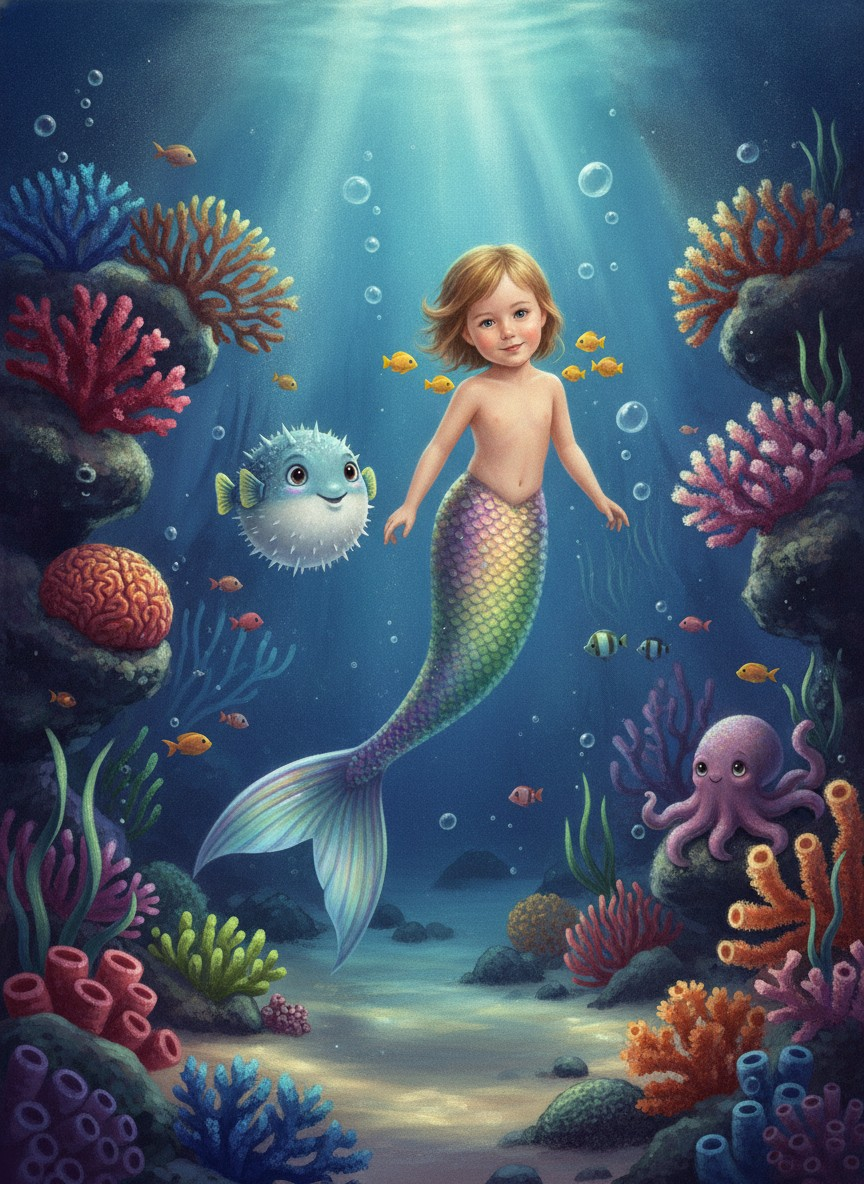
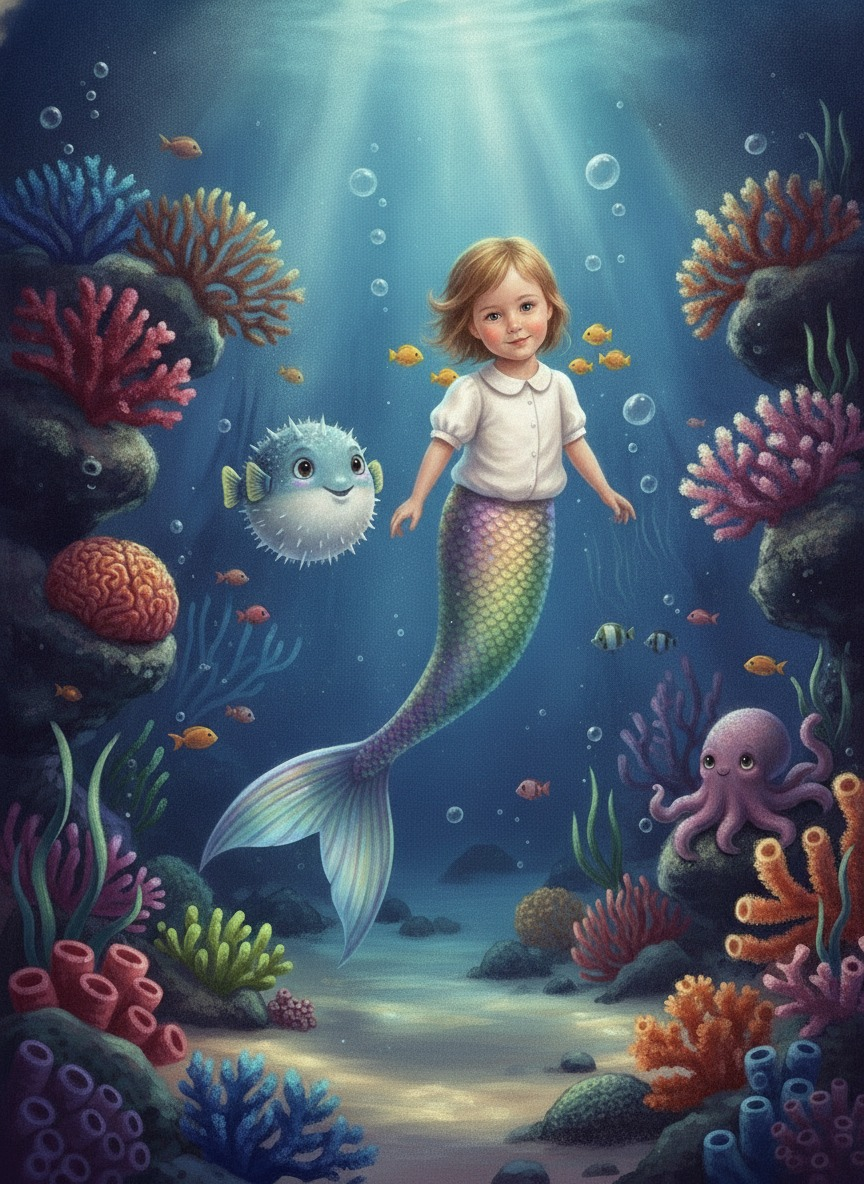
Show hero as a large portrait book, gold cover titles, and modest ocean cover.
Client asked for book-shaped hero (not full-bleed), more attractive title type, and a clothed mermaid on Lia's cover.

diff --git a/apps/web/src/landing.css b/apps/web/src/landing.css
@@ -1,4 +1,4 @@
-@import url('https://fonts.googleapis.com/css2?family=Baloo+2:wght@500;600;700;800&family=Quicksand:wght@400;500;600;700&display=swap');
+@import url('https://fonts.googleapis.com/css2?family=Baloo+2:wght@500;600;700;800&family=Fredoka:wght@500;600;700&family=Quicksand:wght@400;500;600;700&display=swap');
 
 /* ---------- base ---------- */
 .kid {
@@ -89,103 +89,112 @@
 .khero-cta { display: flex; gap: 14px; flex-wrap: wrap; margin: 22px 0 14px; }
 .ktrust { font-weight: 600; color: #6b6890; } .stars { color: var(--yellow); letter-spacing: 2px; }
 
-/* ---------- HERO banner full-width (foto real -> capa do livro, carrossel) ---------- */
-.kbanner-hero { position: relative; z-index: 1; max-width: 1180px; margin: 6px auto 0; padding: 16px 22px 4px; }
+/* ---------- HERO — livro grande (retrato), não banner full-bleed ---------- */
+.kbanner-hero {
+  position: relative; z-index: 1; max-width: 1180px; margin: 6px auto 0;
+  padding: 18px 22px 8px; display: flex; justify-content: center;
+}
 .kbh-frame {
-  position: relative; width: 100%; border-radius: 30px; overflow: hidden;
-  aspect-ratio: 16 / 9; min-height: 360px; background: #12203f;
-  box-shadow: 0 30px 70px rgba(31,53,104,.28);
+  position: relative; width: min(520px, 92vw); border-radius: 14px 6px 6px 14px;
+  overflow: hidden; aspect-ratio: 3 / 4; background: #12203f;
+  box-shadow:
+    0 28px 60px rgba(31,53,104,.32),
+    8px 0 0 #1a2748,
+    10px 0 0 rgba(0,0,0,.18);
+}
+.kbh-frame::before {
+  content: ""; position: absolute; left: 0; top: 0; bottom: 0; width: 10px; z-index: 7;
+  background: linear-gradient(90deg, rgba(0,0,0,.28), rgba(0,0,0,.04) 70%, transparent);
+  pointer-events: none;
 }
 .kbh-slide { position: absolute; inset: 0; opacity: 0; transition: opacity .8s ease; pointer-events: none; }
 .kbh-slide.on { opacity: 1; pointer-events: auto; }
 .kbh-photo { position: absolute; inset: 0; width: 100%; height: 100%; object-fit: cover; object-position: center center; }
-/* escurece a base e a esquerda para dar contraste ao texto */
+/* escurece só a base — capa inteira como livro */
 .kbh-slide::after {
   content: ""; position: absolute; inset: 0; pointer-events: none;
-  background:
-    linear-gradient(90deg, rgba(9,15,32,.62) 0%, rgba(9,15,32,.22) 38%, rgba(9,15,32,.02) 58%),
-    linear-gradient(0deg, rgba(9,15,32,.72) 0%, rgba(9,15,32,0) 42%);
+  background: linear-gradient(0deg, rgba(9,15,32,.78) 0%, rgba(9,15,32,.28) 28%, rgba(9,15,32,0) 48%);
 }
-/* título da capa — estilo Mundo dos Dinossauros (marrom + contorno creme) */
+/* título da capa — dourado glitter (estilo História Surpresa) */
 .fb-stage,
 .banner-card { container-type: inline-size; }
 .kbh-cover-title,
 .fb-cover-title,
 .banner-book-title {
-  position: absolute; top: 7%; left: 50%; transform: translateX(-50%); z-index: 5;
+  position: absolute; top: 6%; left: 50%; transform: translateX(-50%); z-index: 5;
   width: 92%; max-width: 22ch; text-align: center; pointer-events: none;
-  font-family: 'Baloo 2', cursive; font-weight: 800; line-height: 1.02;
-  font-size: 1.55rem; letter-spacing: .01em;
-  color: #6b3e18;
+  font-family: 'Fredoka', 'Baloo 2', cursive; font-weight: 700; line-height: 1.02;
+  font-size: 1.55rem; letter-spacing: .02em;
+  color: #f6c93a;
   text-shadow:
-    -3px -3px 0 #f7f1e6, 3px -3px 0 #f7f1e6, -3px 3px 0 #f7f1e6, 3px 3px 0 #f7f1e6,
-    -3px 0 0 #f7f1e6, 3px 0 0 #f7f1e6, 0 -3px 0 #f7f1e6, 0 3px 0 #f7f1e6,
-    0 4px 10px rgba(0,0,0,.4);
+    0 1px 0 #d4a21a,
+    0 2px 0 #b88712,
+    0 3px 0 #9a6f0e,
+    0 4px 0 #7a560c,
+    0 5px 12px rgba(0,0,0,.45),
+    0 0 18px rgba(255,214,90,.55);
 }
 .fb-cover-title,
 .banner-book-title { font-size: 12.5cqw; max-width: 90%; }
-/* título do hero — 2 linhas inteiras, com folga do topo (não corta no overflow) */
+/* título do hero — 2 linhas inteiras no topo do livro */
 .kbh-cover-title {
-  top: 10%; z-index: 5; left: 50%; width: min(540px, 64%); max-width: none;
-  display: flex; flex-direction: column; align-items: center; gap: .08em;
-  padding: 6px 10px; box-sizing: border-box;
-  font-size: clamp(1.45rem, 2.9vw, 2.35rem); line-height: 1.05; letter-spacing: .015em;
-  text-shadow:
-    -3px -3px 0 #f7f1e6, 3px -3px 0 #f7f1e6, -3px 3px 0 #f7f1e6, 3px 3px 0 #f7f1e6,
-    -3px 0 0 #f7f1e6, 3px 0 0 #f7f1e6, 0 -3px 0 #f7f1e6, 0 3px 0 #f7f1e6,
-    0 5px 14px rgba(0,0,0,.42);
+  top: 7%; z-index: 5; left: 50%; width: 88%; max-width: none;
+  display: flex; flex-direction: column; align-items: center; gap: .06em;
+  padding: 4px 8px; box-sizing: border-box;
+  font-size: clamp(1.35rem, 5.2vw, 2.05rem); line-height: 1.05; letter-spacing: .02em;
 }
 .kbh-cover-title > span {
   display: block; width: max-content; max-width: 100%; text-align: center;
   white-space: nowrap;
 }
 .kbh-tag {
-  position: absolute; top: 18px; left: 18px; z-index: 4; display: inline-flex; align-items: center;
-  background: #fff; padding: 8px 14px; border-radius: 999px;
+  position: absolute; top: 14px; left: 16px; z-index: 4; display: inline-flex; align-items: center;
+  background: #fff; padding: 7px 12px; border-radius: 999px;
   box-shadow: 0 10px 24px rgba(0,0,0,.22);
 }
-.kbh-tag-top { color: var(--purple); font-family: 'Baloo 2', cursive; font-weight: 800; font-size: .68rem; letter-spacing: 1.2px; display: inline-flex; align-items: center; gap: 5px; }
+.kbh-tag-top { color: var(--purple); font-family: 'Baloo 2', cursive; font-weight: 800; font-size: .62rem; letter-spacing: 1.2px; display: inline-flex; align-items: center; gap: 5px; }
 .kbh-tag-top .ei { width: 14px; height: 14px; color: var(--yellow); }
 .kbh-tag b { display: none; }
 .kbh-book {
-  position: absolute; top: 50%; right: 5%; transform: translateY(-50%); z-index: 4; margin: 0;
-  width: 25%; max-width: 218px; aspect-ratio: 3 / 4; border-radius: 16px; overflow: hidden;
-  box-shadow: 0 20px 44px rgba(0,0,0,.5), 0 0 0 4px rgba(244,183,64,.65);
+  position: absolute; top: 22%; right: 6%; z-index: 4; margin: 0;
+  width: 28%; max-width: 128px; aspect-ratio: 3 / 4; border-radius: 12px; overflow: hidden;
+  box-shadow: 0 16px 36px rgba(0,0,0,.48), 0 0 0 3px rgba(244,183,64,.7);
   animation: bob 6s ease-in-out infinite;
 }
 .kbh-book img { display: block; width: 100%; height: 100%; object-fit: cover; }
-.kbh-overlay { position: absolute; left: 6%; bottom: 8%; z-index: 5; max-width: 55%; color: #fff; }
-.kbh-overlay .keyebrow { font-size: .82rem; padding: 6px 13px; }
-.kbh-overlay h1 { font-size: clamp(1.9rem, 4.2vw, 3.2rem); line-height: 1.06; margin: 12px 0 8px; color: #fff; text-shadow: 0 3px 18px rgba(0,0,0,.5); }
-.kbh-overlay p { font-size: clamp(.95rem, 1.6vw, 1.2rem); line-height: 1.5; color: #eef1f8; margin: 0 0 16px; max-width: 42ch; text-shadow: 0 2px 10px rgba(0,0,0,.45); }
+.kbh-overlay {
+  position: absolute; left: 7%; right: 7%; bottom: 7%; z-index: 5;
+  max-width: none; color: #fff; text-align: left;
+}
+.kbh-overlay .keyebrow { font-size: .78rem; padding: 5px 12px; }
+.kbh-overlay h1 { font-size: clamp(1.55rem, 4.5vw, 2.1rem); line-height: 1.08; margin: 10px 0 6px; color: #fff; text-shadow: 0 3px 16px rgba(0,0,0,.55); }
+.kbh-overlay p { font-size: clamp(.88rem, 2.4vw, 1.05rem); line-height: 1.45; color: #eef1f8; margin: 0 0 14px; max-width: 34ch; text-shadow: 0 2px 10px rgba(0,0,0,.45); }
 .kbh-overlay .khero-cta { margin: 0; }
-.kbh-dots { position: absolute; left: 50%; bottom: 14px; transform: translateX(-50%); z-index: 6; }
+.kbh-dots { position: absolute; left: 50%; bottom: 10px; transform: translateX(-50%); z-index: 6; }
 .kbh-dots button { background: rgba(255,255,255,.55); }
 .kbh-dots button.on { background: var(--yellow); }
 @media (max-width: 760px) {
   .kbanner-hero { padding: 12px 14px 4px; }
-  .kbh-frame { aspect-ratio: 3 / 4; min-height: 0; }
-  .kbh-photo { object-position: center center; }
-  .kbh-cover-title { left: 50%; width: min(360px, 90%); top: 9%; font-size: clamp(1.2rem, 5.2vw, 1.65rem); }
-  .kbh-tag { top: 12px; left: 12px; padding: 6px 12px; }
-  .kbh-tag-top { font-size: .62rem; letter-spacing: 1px; }
-  .kbh-book { width: 34%; max-width: 148px; top: 22%; right: 5%; transform: none; }
-  .kbh-overlay { left: 6%; right: 6%; max-width: none; bottom: 9%; }
-  .kbh-overlay h1 { font-size: 1.95rem; margin: 8px 0 6px; }
-  .kbh-overlay p { font-size: .98rem; margin-bottom: 14px; }
+  .kbh-frame { width: min(420px, 94vw); }
+  .kbh-cover-title { font-size: clamp(1.2rem, 5.6vw, 1.7rem); top: 6.5%; }
+  .kbh-tag { top: 12px; left: 12px; padding: 6px 11px; }
+  .kbh-tag-top { font-size: .58rem; letter-spacing: 1px; }
+  .kbh-book { width: 30%; max-width: 112px; top: 20%; right: 5%; }
+  .kbh-overlay { left: 6%; right: 6%; bottom: 8%; }
+  .kbh-overlay h1 { font-size: 1.55rem; margin: 8px 0 5px; }
+  .kbh-overlay p { font-size: .92rem; margin-bottom: 12px; }
   .kbh-overlay .khero-cta { flex-wrap: wrap; }
-  .kbh-dots { bottom: 10px; }
+  .kbh-dots { bottom: 8px; }
 }
 @media (max-width: 480px) {
-  .kbh-frame { aspect-ratio: 3 / 4.3; }
-  .kbh-photo { object-position: center center; }
-  .kbh-cover-title { font-size: 1.15rem; top: 8%; }
-  .kbh-book { width: 36%; top: 20%; }
+  .kbh-frame { width: min(360px, 94vw); }
+  .kbh-cover-title { font-size: 1.15rem; top: 6%; }
+  .kbh-book { width: 32%; max-width: 100px; top: 18%; }
   .kbh-overlay { bottom: 7%; }
-  .kbh-overlay .keyebrow { font-size: .7rem; padding: 5px 11px; }
-  .kbh-overlay h1 { font-size: 1.6rem; }
+  .kbh-overlay .keyebrow { font-size: .68rem; padding: 5px 10px; }
+  .kbh-overlay h1 { font-size: 1.4rem; }
   .kbh-overlay p {
-    font-size: .9rem; margin-bottom: 12px;
+    font-size: .86rem; margin-bottom: 10px;
     display: -webkit-box; -webkit-line-clamp: 2; -webkit-box-orient: vertical; overflow: hidden;
   }
 }

diff --git a/apps/web/src/Landing.tsx b/apps/web/src/Landing.tsx
@@ -538,7 +538,7 @@ export function Landing() {
         </div>
       </header>
 
-      {/* HERO — capa do livro em destaque + foto real no card */}
+      {/* HERO — livro grande (retrato), capa + foto real no card */}
       <section className="kbanner-hero" aria-label={t.eyebrow}>
         <div className="kbh-frame">
           {HERO_SLIDES.map((s, i) => (

diff --git a/backend/scripts/fix_lia_cover_top.py b/backend/scripts/fix_lia_cover_top.py
@@ -1,0 +1,92 @@
+# -*- coding: utf-8 -*-
+"""Regenera capa-oceano com top/blusa (cliente: sereia sem camisa nao ficou legal).
+
+Uso (Story2/backend):
+  python scripts/fix_lia_cover_top.py
+"""
+from __future__ import annotations
+
+import asyncio
+import io
+import os
+import sys
+from pathlib import Path
+
+from PIL import Image
+
+BACKEND = Path(__file__).resolve().parents[1]
+ROOT = BACKEND.parent
+sys.path.insert(0, str(BACKEND))
+os.chdir(BACKEND)
+
+from app.ai import gemini  # noqa: E402
+from app.config import settings  # noqa: E402
+
+settings.gemini_ssl_verify = False
+
+EXEMPLOS = ROOT / "apps" / "web" / "public" / "exemplos"
+PHOTO = EXEMPLOS / "foto-bebe.jpg"
+AVATAR = EXEMPLOS / "_avatar-mar.png"
+COVER = EXEMPLOS / "capa-oceano.jpg"
+REF_WITH_TOP = EXEMPLOS / "mar-2.jpg"
+
+PROMPT = """\
+Children's book COVER illustration. No text, letters, captions, watermarks, or logos.
+
+Edit / recreate this underwater book cover of Lia the little mermaid:
+- Keep the SAME underwater coral reef composition, friendly pufferfish, purple octopus,
+  colorful fish, sunbeams, and magical painterly children's-book style.
+- Keep Lia's face identity from the attached photo + character portrait (same toddler face,
+  short blonde hair, blue eyes, gentle smile).
+- CRITICAL MODESTY FIX: Lia MUST wear a cute modest short-sleeved white blouse (or seashell
+  bikini top) covering her chest completely. NO bare torso, NO topless mermaid.
+- She still has a colorful iridescent mermaid fish tail from the waist down.
+- Premium refined children's picture book, soft realistic lighting. Vertical cover, no text.
+"""
+
+
+def to_jpg(img_bytes: bytes, out: Path, max_w: int = 1180) -> None:
+    im = Image.open(io.BytesIO(img_bytes)).convert("RGB")
+    if im.width > max_w:
+        im = im.resize((max_w, int(im.height * max_w / im.width)), Image.LANCZOS)
+    im.save(out, "JPEG", quality=92, optimize=True)
+
+
+async def main() -> None:
+    if not settings.gemini_api_key:
+        raise SystemExit("GEMINI_API_KEY ausente")
+    for p in (PHOTO, AVATAR, COVER):
+        if not p.is_file():
+            raise SystemExit(f"arquivo ausente: {p}")
+
+    os.environ.setdefault("GEMINI_FALLBACK_MODELS", "gemini-2.5-flash-image")
+    photo = PHOTO.read_bytes()
+    char = AVATAR.read_bytes()
+    cover = COVER.read_bytes()
+    parts = [
+        {"text": PROMPT},
+        gemini._inline(cover, "image/jpeg"),
+        gemini._inline(photo, "image/jpeg"),
+        gemini._inline(char, "image/png"),
+    ]
+    if REF_WITH_TOP.is_file():
+        parts.append(gemini._inline(REF_WITH_TOP.read_bytes(), "image/jpeg"))
+        parts[0] = {
+            "text": PROMPT
+            + "\nUse mar-2 (last image) as clothing reference: white short-sleeved blouse covering chest."
+        }
+
+    print("regenerando capa-oceano com top...", flush=True)
+    scene = await gemini._generate(parts)
+    # backup
+    bak = COVER.with_suffix(".bak.jpg")
+    if not bak.is_file():
+        bak.write_bytes(COVER.read_bytes())
+        print(f"backup -> {bak.name}", flush=True)
+    to_jpg(scene, COVER)
+    print(f"ok {COVER.name}", flush=True)
+    print("DONE", flush=True)
+
+
+if __name__ == "__main__":
+    asyncio.run(main())

diff --git a/backend/scripts/regen_landing_exemplos.py b/backend/scripts/regen_landing_exemplos.py
@@ -40,8 +40,9 @@ THEME_RULES = {
     "mar": (
         "CRITICAL: The child is a MERMAID / merboy with a colorful fish tail from the waist down "
         "in EVERY underwater scene. Face must match the character reference. "
-        "Never put the child in shorts/shirt underwater. Recurring friends: friendly pufferfish, "
-        "purple octopus, small yellow fish."
+        "MODESTY: the child MUST wear a modest short-sleeved blouse / seashell bikini top / "
+        "cute swim top covering the chest — NEVER bare torso / topless / nude chest. "
+        "Recurring friends: friendly pufferfish, purple octopus, small yellow fish."
     ),
     "dino": (
         "CRITICAL: Dino is ALWAYS a cute GREEN DINOSAUR (triceratops-like, dog-sized, friendly big eyes) "
